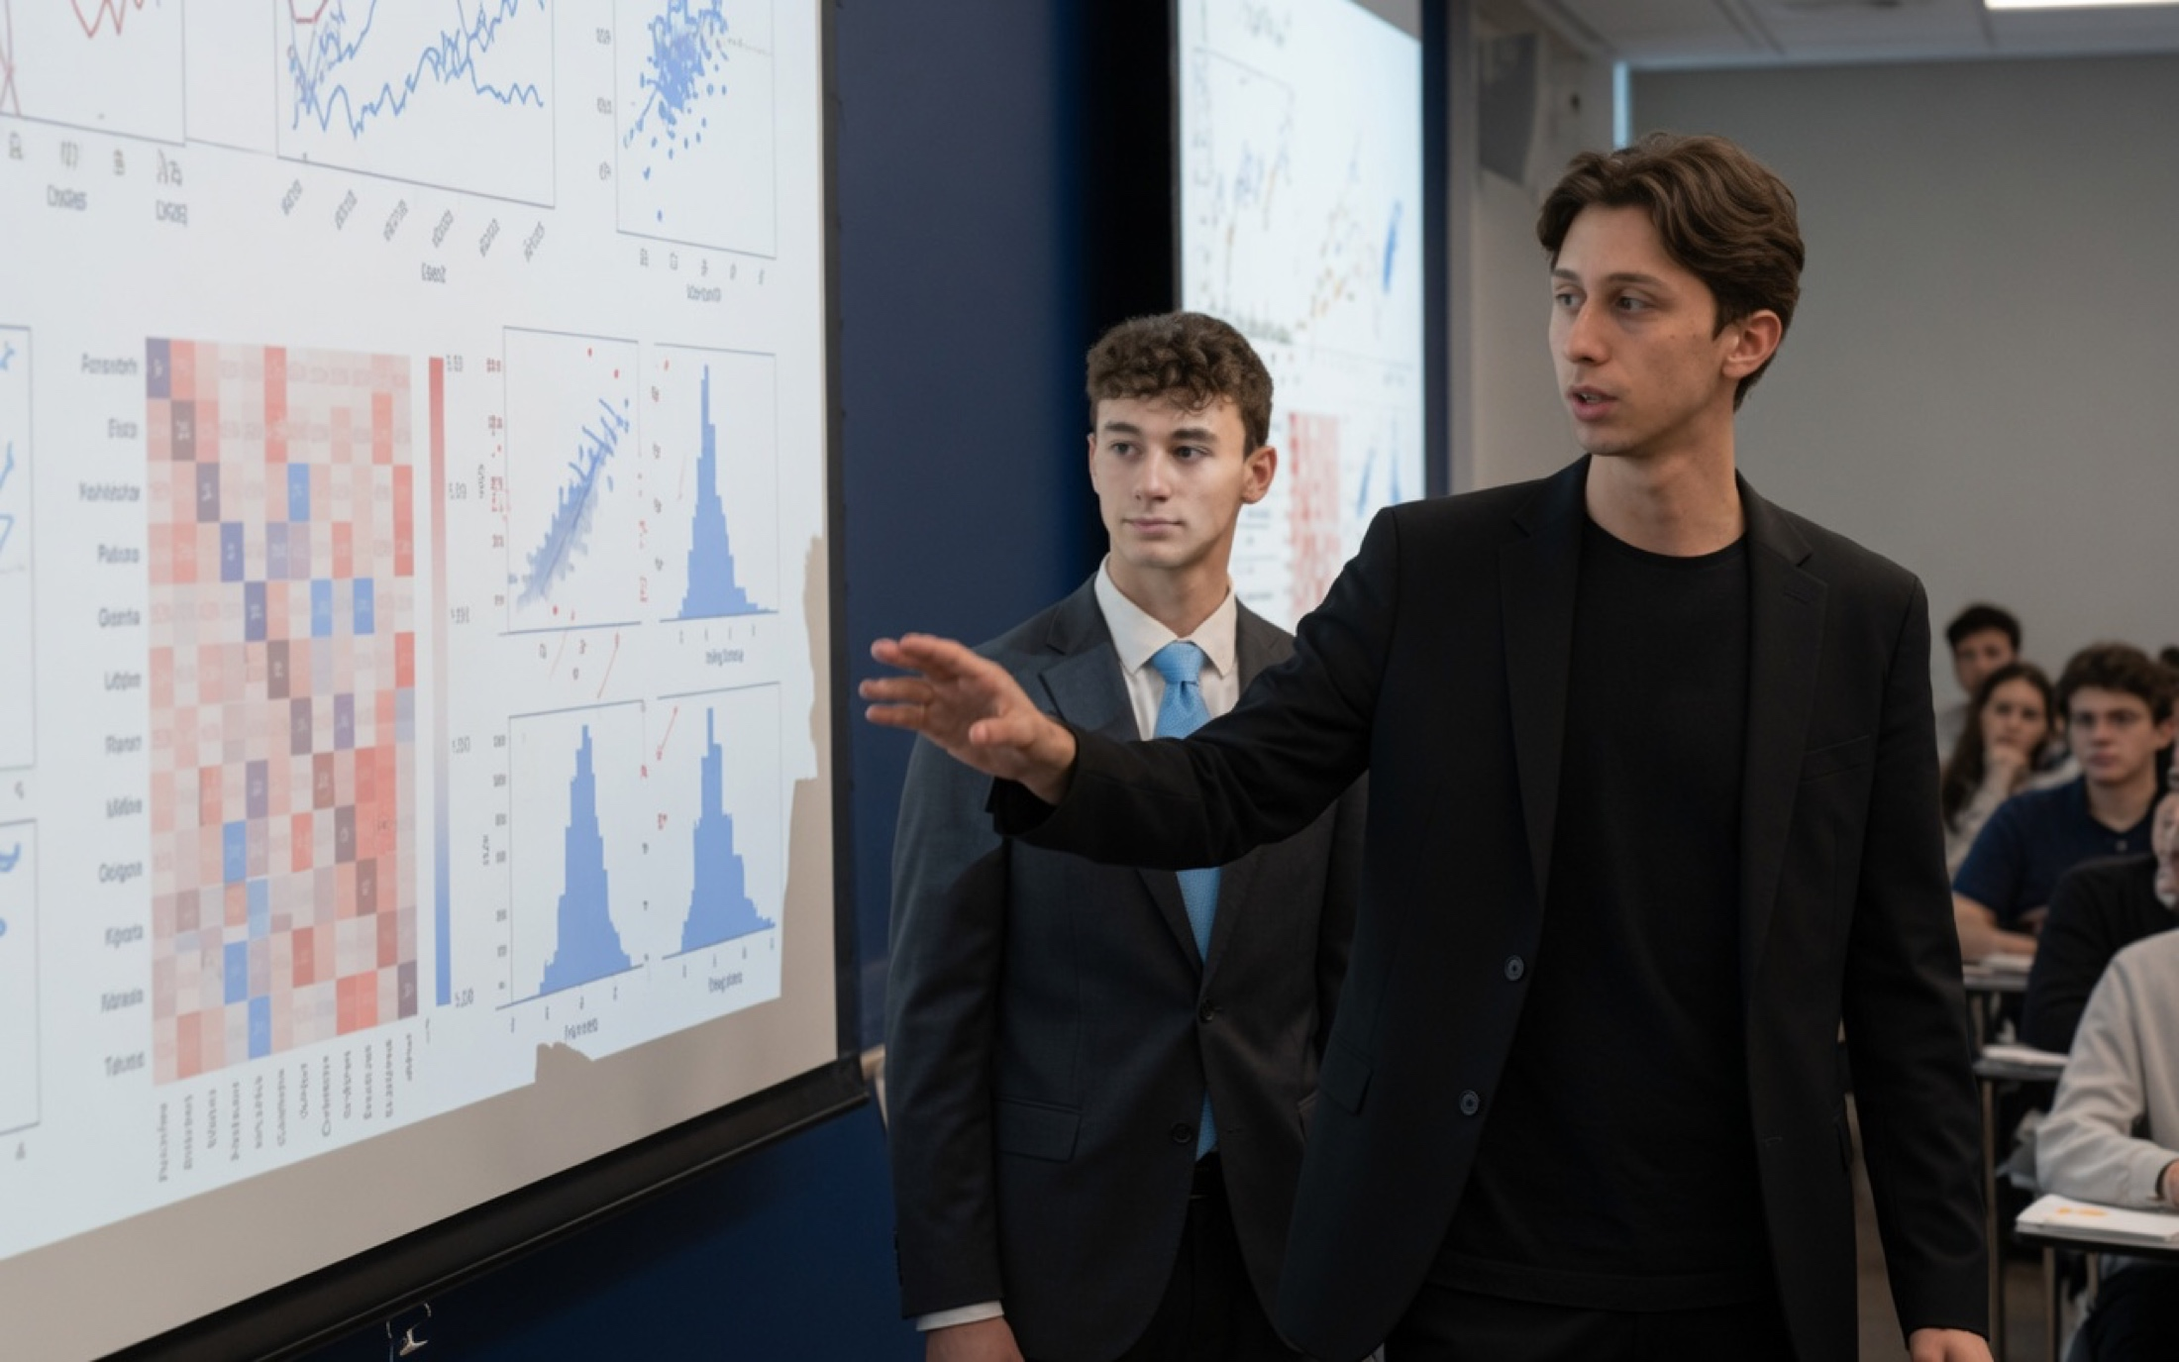
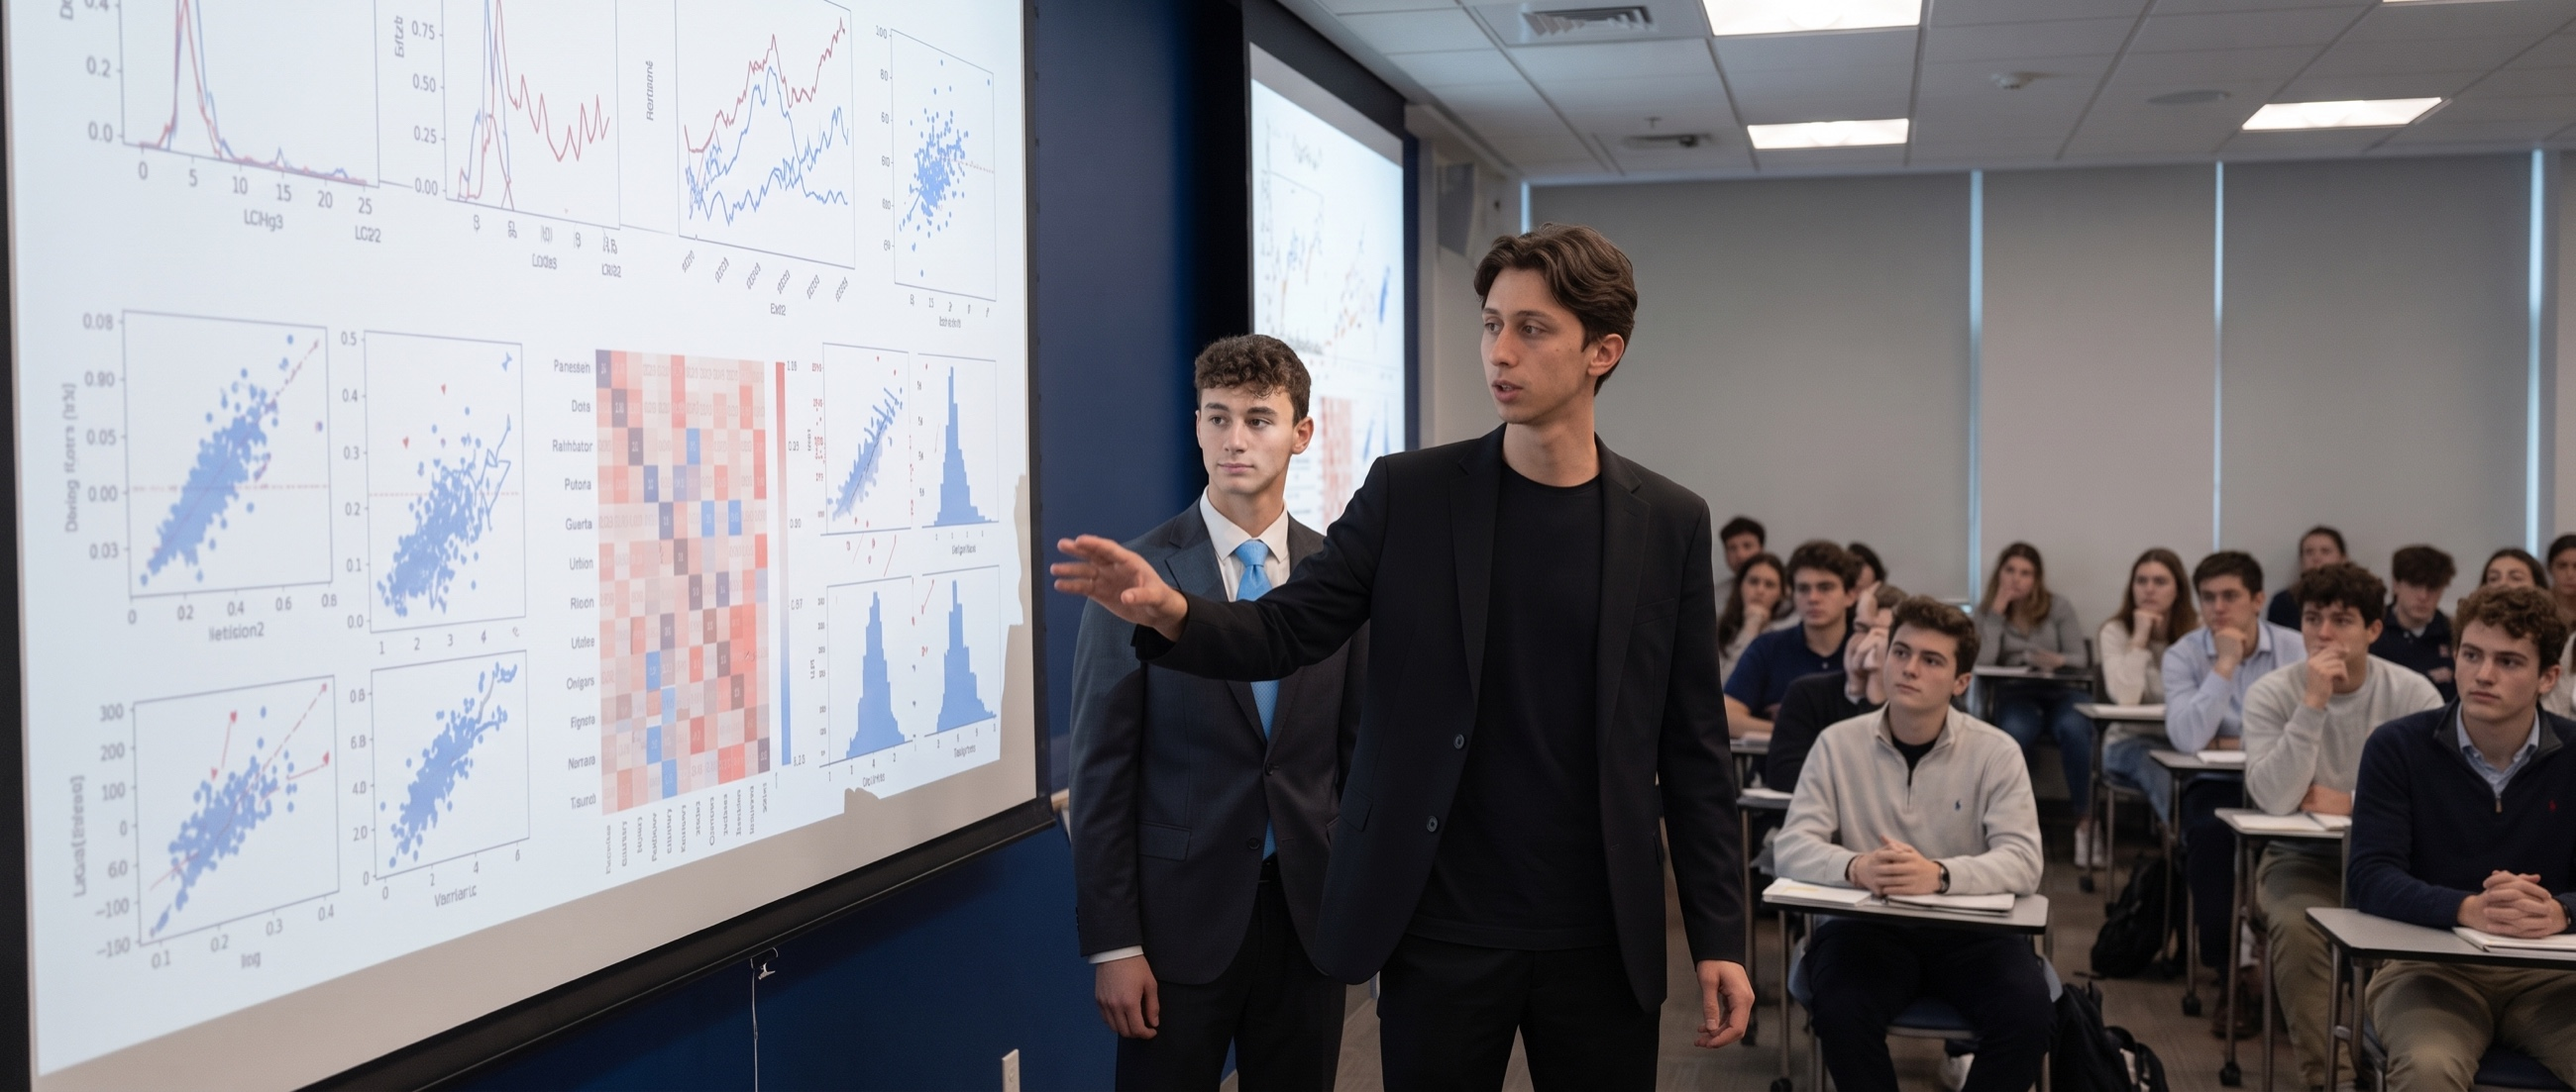
Refresh board/members heroes and gallery imagery
- OurBoard hero -> real NYU Stern photo (nyu-stern.jpg)
- OurMembers hero -> Washington Square Arch photo
- Update quant hero asset; drop Home hero progressive-load placeholder
- Footer + SEO image-URL/cache-buster tweaks

diff --git a/src/seo.ts b/src/seo.ts
@@ -26,22 +26,22 @@ export const PUBLIC_SEO_ROUTES: SeoRoute[] = [
     path: '/our-board',
     title: `Executive Board | ${SITE_SHORT_NAME}`,
     description: 'Meet the student leaders powering TAMID Group at NYU.',
-    image: `${SITE_URL}/board-gallery/board-gallery-1.jpg`,
-    imageAlt: 'TAMID Group at NYU executive board members gathered at an event',
+    image: `${SITE_URL}/board-gallery/nyu-stern.jpg?v=3`,
+    imageAlt: 'The NYU Stern School of Business building',
   },
   {
     path: '/our-members',
     title: `General Members | ${SITE_SHORT_NAME}`,
     description: "Meet TAMID Group at NYU's members.",
-    image: `${SITE_URL}/members-gallery/members-gallery-1.jpeg`,
-    imageAlt: 'TAMID Group at NYU members at an event',
+    image: `${SITE_URL}/members-gallery/washington-square-arch.jpg?v=4`,
+    imageAlt: 'The Washington Square Arch at NYU',
   },
   {
     path: '/tracks',
     title: `Tracks | ${SITE_SHORT_NAME}`,
     description:
       'Explore TAMID Group at NYU’s three tracks: Investment Fund, Consulting, and Quant.',
-    image: `${SITE_URL}/mentorship-gallery/quant-hero-v5.jpg`,
+    image: `${SITE_URL}/mentorship-gallery/quant-hero-v5.jpg?v=2`,
     imageAlt: 'TAMID Group at NYU track participants',
   },
   {
@@ -49,7 +49,7 @@ export const PUBLIC_SEO_ROUTES: SeoRoute[] = [
     title: `Investment Fund | ${SITE_SHORT_NAME}`,
     description:
       'TAMID Group at NYU’s student-run Investment Fund: equity research through a Seeking Alpha partnership and a national simulated-fund competition where members build and pitch long/short theses.',
-    image: `${SITE_URL}/mentorship-gallery/mentorship-gallery-1.jpeg?v=7`,
+    image: `${SITE_URL}/mentorship-gallery/mentorship-gallery-1.jpeg?v=19`,
     imageAlt: 'TAMID Group at NYU Investment Fund members',
   },
   {
@@ -65,7 +65,7 @@ export const PUBLIC_SEO_ROUTES: SeoRoute[] = [
     title: `Quant | ${SITE_SHORT_NAME}`,
     description:
       'TAMID Group at NYU’s Quant track: quantitative and algorithmic strategy through data-driven research, signal and backtest development, and Python-based modeling.',
-    image: `${SITE_URL}/mentorship-gallery/quant-hero-v5.jpg`,
+    image: `${SITE_URL}/mentorship-gallery/quant-hero-v5.jpg?v=2`,
     imageAlt: 'TAMID Group at NYU Quant members',
   },
   {

diff --git a/src/pages/Home/Home.tsx b/src/pages/Home/Home.tsx
@@ -1,14 +1,13 @@
 import { startTransition, useState, useEffect } from 'react';
 import { Link } from 'react-router-dom';
 
-import { useProgressiveImage, useScrollAnimation } from '@hooks';
+import { useScrollAnimation } from '@hooks';
 import { CallToAction, Footer, LogoCloud, LogoGallery, type Logo } from '@components';
 
 import './Home.css';
 import '../OurMission/OurMission.css';
 
 const HERO_GALLERY_IMAGES = ['/home-gallery/tamid-gallery-1.JPG'] as const;
-const HERO_GALLERY_PLACEHOLDER = '/home-gallery/tamid-gallery-1-placeholder.jpg';
 const HOME_PAGE_SPEAKER_LOGOS = [
   { name: 'Goldman Sachs', src: '/speaker-logos/goldman-sachs-logo.png' },
   { name: 'JPMorgan Chase', src: '/speaker-logos/jpmorgan-logo.jpg' },
@@ -81,8 +80,6 @@ const HomeHero = () => {
   const [currentImage, setCurrentImage] = useState(1);
   const [loadedGalleryImages, setLoadedGalleryImages] = useState<number[]>([1, 2]);
   const firstHeroImageSrc = HERO_GALLERY_IMAGES[0];
-  const { currentSrc: progressiveHeroImageSrc, isFullLoaded: isHeroImageLoaded } =
-    useProgressiveImage(HERO_GALLERY_PLACEHOLDER, firstHeroImageSrc);
 
   useEffect(() => {
     if (HERO_GALLERY_IMAGES.length <= 1) return;
@@ -120,7 +117,7 @@ const HomeHero = () => {
             const isActiveImage = currentImage === imageNumber;
             const isPriorityImage = imageNumber === 1;
             const displaySrc = isPriorityImage
-              ? (progressiveHeroImageSrc ?? HERO_GALLERY_PLACEHOLDER)
+              ? firstHeroImageSrc
               : shouldLoadImage
                 ? imageSrc
                 : undefined;
@@ -138,7 +135,6 @@ const HomeHero = () => {
                     loading={isPriorityImage ? 'eager' : 'lazy'}
                     decoding="async"
                     fetchPriority={isPriorityImage ? 'high' : 'low'}
-                    className={imageNumber === 1 && !isHeroImageLoaded ? 'is-placeholder' : ''}
                   />
                 ) : null}
               </div>

diff --git a/src/components/Footer/Footer.tsx b/src/components/Footer/Footer.tsx
@@ -44,23 +44,22 @@ export const Footer = () => {
 
           <div className="footer-links">
             <div className="footer-column">
-              <h3>Tracks</h3>
-              <Link to="/tracks">Tracks</Link>
+              <h3>Programs</h3>
+              <Link to="/tracks/fund">Investment Fund</Link>
+              <Link to="/tracks/consulting">Consulting</Link>
+              <Link to="/tracks/quant">Quant</Link>
+              <Link to="/tracks/fellowship">Israel Fellowship</Link>
             </div>
 
             <div className="footer-column">
-              <h3>Apply</h3>
-              <Link to="/apply">Apply</Link>
-            </div>
-
-            <div className="footer-column">
-              <h3>About Us</h3>
+              <h3>Team</h3>
               <Link to="/our-board">Executive Board</Link>
               <Link to="/our-members">General Members</Link>
             </div>
 
             <div className="footer-column">
               <h3>Connect</h3>
+              <Link to="/apply">Apply</Link>
               <Link to="/contact">Contact</Link>
             </div>
           </div>

diff --git a/src/pages/OurMembers/OurMembers.tsx b/src/pages/OurMembers/OurMembers.tsx
@@ -147,9 +147,9 @@ export const OurMembers = () => {
         <SubpageHero
           ref={heroAnimation.elementRef}
           visible={heroAnimation.isVisible}
-          backgroundImageSrc="/members-gallery/members-gallery-1.jpeg"
-          backgroundImageAlt="TAMID Group at NYU members at an event"
-          imagePosition="center 42%"
+          backgroundImageSrc="/members-gallery/washington-square-arch.jpg?v=4"
+          backgroundImageAlt="The Washington Square Arch at NYU"
+          imagePosition="center 40%"
           title="General Members"
           lead="Membership reflects sustained involvement in TAMID Group at NYU. Every event remains open to all students, while recognition is reserved for those who show up consistently across the semester."
         />

diff --git a/src/pages/OurBoard/OurBoard.tsx b/src/pages/OurBoard/OurBoard.tsx
@@ -166,9 +166,9 @@ export const OurBoard = () => {
         <SubpageHero
           ref={heroAnimation.elementRef}
           visible={heroAnimation.isVisible}
-          backgroundImageSrc="/board-gallery/board-gallery-1.jpg"
-          backgroundImageAlt="TAMID Group at NYU members gathered at an event"
-          imagePosition="center 42%"
+          backgroundImageSrc="/board-gallery/nyu-stern.jpg?v=3"
+          backgroundImageAlt="The NYU Stern School of Business building"
+          imagePosition="center 80%"
           title="Executive Board"
           lead="Meet the students leading TAMID Group at NYU this academic year."
         />

diff --git a/src/components/Header/Header.tsx b/src/components/Header/Header.tsx
@@ -124,7 +124,7 @@ export const Header = () => {
             onClose={closeMenu}
           />
           <Dropdown
-            label="About"
+            label="Team"
             items={ABOUT_DROPDOWN_ITEMS}
             activeRoutes={ABOUT_DROPDOWN_ITEMS.map((item) => item.to)}
             menuId="about-dropdown-menu"
